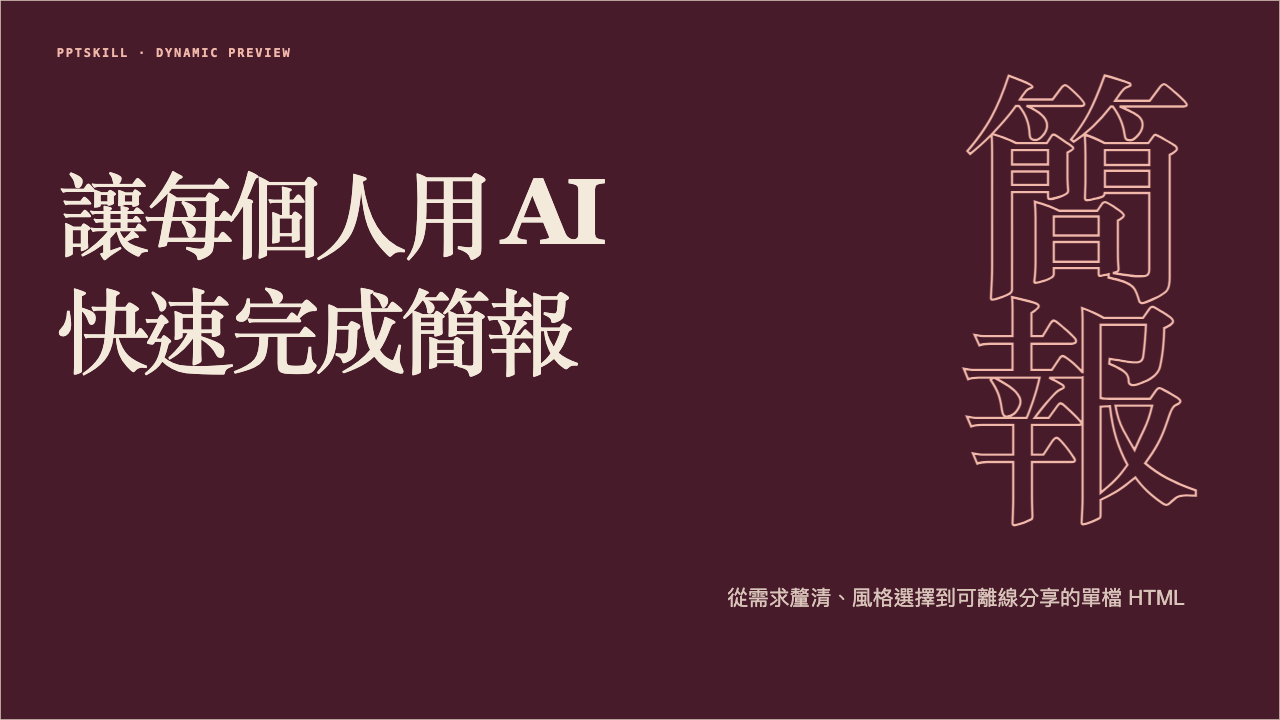
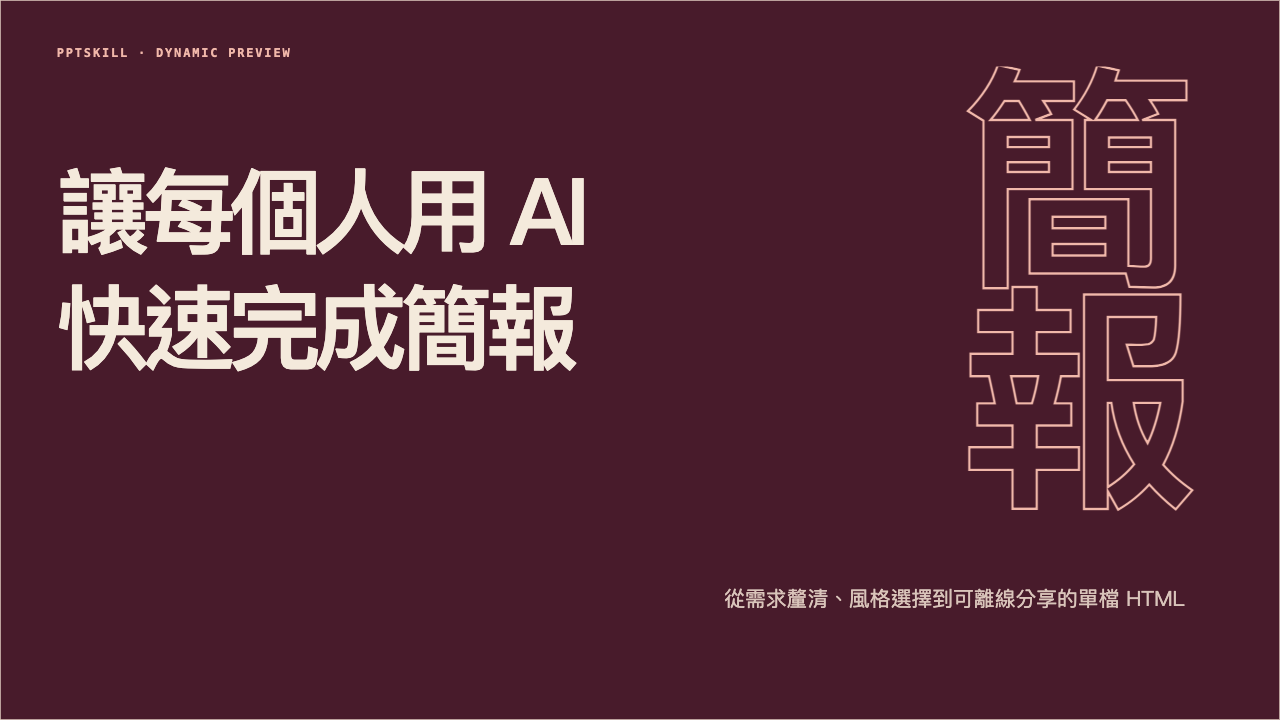
style: use Microsoft JhengHei for Q2 covers

diff --git a/fixtures/style-candidate-previews/route-technical-map.html b/fixtures/style-candidate-previews/route-technical-map.html
@@ -1,5 +1,5 @@
 <!doctype html><html lang="zh-Hant"><head><meta charset="utf-8"><meta name="viewport" content="width=device-width,initial-scale=1"><title>Technical Map</title><style>
-*{box-sizing:border-box}html,body{margin:0;width:100%;height:100%;overflow:hidden}body{position:relative;background:#0c1b19;color:#e8f0e9;font-family:Arial, sans-serif}.stage{--canvas:#0c1b19;--text:#e8f0e9;--muted:#9ab0a7;--accent:#a9ffcb;--surface:#122824;--display:Arial, sans-serif;--body:Arial, sans-serif;--mono:Menlo, monospace;position:absolute;left:50%;top:50%;width:1600px;height:900px;overflow:hidden;transform:translate(-50%,-50%) scale(var(--stage-scale,1));background:var(--canvas);color:var(--text);font-family:var(--body);transform-origin:center;border:1px solid var(--muted)}.identity{margin:0;font:800 15px/1 var(--mono);letter-spacing:.15em;text-transform:uppercase;color:var(--accent)}h1{margin:30px 0 0;font-family:var(--display);font-weight:800;letter-spacing:-.055em}.title-line{display:block;white-space:nowrap;line-height:1.25}.subtitle{margin:34px 0 0;color:var(--muted);font-size:26px;line-height:1.45}
+*{box-sizing:border-box}html,body{margin:0;width:100%;height:100%;overflow:hidden}body{position:relative;background:#0c1b19;color:#e8f0e9;font-family:'Microsoft JhengHei', 'Microsoft JhengHei UI', 'PingFang TC', sans-serif}.stage{--canvas:#0c1b19;--text:#e8f0e9;--muted:#9ab0a7;--accent:#a9ffcb;--surface:#122824;--display:'Microsoft JhengHei', 'Microsoft JhengHei UI', 'PingFang TC', sans-serif;--body:'Microsoft JhengHei', 'Microsoft JhengHei UI', 'PingFang TC', sans-serif;--mono:Menlo, monospace;position:absolute;left:50%;top:50%;width:1600px;height:900px;overflow:hidden;transform:translate(-50%,-50%) scale(var(--stage-scale,1));background:var(--canvas);color:var(--text);font-family:var(--body);transform-origin:center;border:1px solid var(--muted)}.identity{margin:0;font:800 15px/1 var(--mono);letter-spacing:.15em;text-transform:uppercase;color:var(--accent)}h1{margin:30px 0 0;font-family:var(--display);font-weight:800;letter-spacing:-.055em}.title-line{display:block;white-space:nowrap;line-height:1.25}.subtitle{margin:34px 0 0;color:var(--muted);font-size:26px;line-height:1.45}
 .stage{padding:60px 68px}.information-copy{position:absolute;right:68px;top:58px;width:760px;z-index:3}.information-copy h1{font-size:76px;line-height:1;margin-top:54px}.information-copy .subtitle{position:absolute;right:0;top:650px;width:560px;margin:0;text-align:right;font-size:22px}.information-sequence{position:absolute;left:0;top:0;width:1120px;height:850px;margin:0;padding:0;list-style:none}.information-sequence li{position:absolute;width:600px;min-height:116px;border-top:3px solid var(--accent);padding:18px 18px 14px 112px;background:var(--canvas);color:var(--text)}.information-sequence li::after{content:"";position:absolute;left:54px;top:100%;width:2px;height:104px;background:var(--muted);transform:rotate(-42deg);transform-origin:top}.information-sequence li:last-child::after{display:none}.information-sequence li:nth-child(1){left:68px;top:180px}.information-sequence li:nth-child(2){left:250px;top:398px}.information-sequence li:nth-child(3){left:432px;top:616px;width:660px}.information-sequence li:nth-child(4){left:720px;top:690px;width:580px}.information-sequence span{position:absolute;left:18px;top:16px;font:800 20px/1 var(--mono);color:var(--accent)}.information-sequence b{display:block;font:800 28px/1.25 var(--display)}.information-fallback{position:absolute;left:68px;right:68px;bottom:88px;height:190px;border-top:3px solid var(--accent);display:flex;align-items:flex-end;justify-content:space-between;padding:0 0 24px}.information-fallback span{width:68%;height:26px;background:var(--surface)}.information-fallback b{font:700 16px/1 var(--mono);color:var(--muted)}
 :root{--motion-duration:180ms;--motion-ease:ease-out;--motion-distance:12px;--motion-scale:0.992}
 html.motion-ready .motion-root [data-effect-title]{opacity:0;clip-path:inset(0 100% 0 0);transform:translateY(var(--motion-distance));transition:opacity var(--motion-duration) var(--motion-ease),clip-path var(--motion-duration) var(--motion-ease),transform var(--motion-duration) var(--motion-ease)}

diff --git a/fixtures/style-candidate-previews/route-split-proof.html b/fixtures/style-candidate-previews/route-split-proof.html
@@ -1,5 +1,5 @@
 <!doctype html><html lang="zh-Hant"><head><meta charset="utf-8"><meta name="viewport" content="width=device-width,initial-scale=1"><title>Brand Field</title><style>
-*{box-sizing:border-box}html,body{margin:0;width:100%;height:100%;overflow:hidden}body{position:relative;background:#1736d1;color:#fbf7e9;font-family:Arial, sans-serif}.stage{--canvas:#1736d1;--text:#fbf7e9;--muted:#d7dcfa;--accent:#dcff55;--surface:#112797;--display:Arial Black, sans-serif;--body:Arial, sans-serif;--mono:Menlo, monospace;position:absolute;left:50%;top:50%;width:1600px;height:900px;overflow:hidden;transform:translate(-50%,-50%) scale(var(--stage-scale,1));background:var(--canvas);color:var(--text);font-family:var(--body);transform-origin:center;border:0px solid var(--muted)}.identity{margin:0;font:800 15px/1 var(--mono);letter-spacing:.15em;text-transform:uppercase;color:var(--accent)}h1{margin:30px 0 0;font-family:var(--display);font-weight:800;letter-spacing:-.055em}.title-line{display:block;white-space:nowrap;line-height:1.25}.subtitle{margin:34px 0 0;color:var(--muted);font-size:26px;line-height:1.45}
+*{box-sizing:border-box}html,body{margin:0;width:100%;height:100%;overflow:hidden}body{position:relative;background:#1736d1;color:#fbf7e9;font-family:'Microsoft JhengHei', 'Microsoft JhengHei UI', 'PingFang TC', sans-serif}.stage{--canvas:#1736d1;--text:#fbf7e9;--muted:#d7dcfa;--accent:#dcff55;--surface:#112797;--display:'Microsoft JhengHei', 'Microsoft JhengHei UI', 'PingFang TC', sans-serif;--body:'Microsoft JhengHei', 'Microsoft JhengHei UI', 'PingFang TC', sans-serif;--mono:Menlo, monospace;position:absolute;left:50%;top:50%;width:1600px;height:900px;overflow:hidden;transform:translate(-50%,-50%) scale(var(--stage-scale,1));background:var(--canvas);color:var(--text);font-family:var(--body);transform-origin:center;border:0px solid var(--muted)}.identity{margin:0;font:800 15px/1 var(--mono);letter-spacing:.15em;text-transform:uppercase;color:var(--accent)}h1{margin:30px 0 0;font-family:var(--display);font-weight:800;letter-spacing:-.055em}.title-line{display:block;white-space:nowrap;line-height:1.25}.subtitle{margin:34px 0 0;color:var(--muted);font-size:26px;line-height:1.45}
 .stage{padding:66px 72px}.brand-field{position:absolute;left:-80px;right:-80px;top:330px;height:650px;background:var(--surface);clip-path:polygon(0 24%,44% 0,100% 14%,100% 100%,0 100%);overflow:hidden}.brand-rhythm{position:absolute;left:560px;right:-80px;top:80px;bottom:28px;display:flex;flex-direction:column;gap:18px;transform:rotate(-7deg)}.brand-rhythm span{display:block;height:48px;width:var(--module);margin-left:var(--shift);background:var(--accent)}.brand-field--falling .brand-rhythm{transform:rotate(7deg);align-items:flex-end}.brand-field--alternating .brand-rhythm span:nth-child(even){margin-left:calc(var(--shift) + 150px);background:var(--canvas)}.brand-copy{position:absolute;left:72px;top:70px;width:1250px;z-index:2}.brand-copy h1{font-size:98px;line-height:.98;margin-top:78px}.brand-copy .subtitle{width:640px;margin-top:42px}.brand-folio{position:absolute;right:72px;bottom:42px;margin:0;font:800 16px/1 var(--mono);letter-spacing:.18em;z-index:3}
 :root{--motion-duration:300ms;--motion-ease:ease-out;--motion-distance:26px;--motion-scale:0.97}
 html.motion-ready .motion-root [data-effect-title]{opacity:0;clip-path:inset(0 100% 0 0);transform:translateY(var(--motion-distance));transition:opacity var(--motion-duration) var(--motion-ease),clip-path var(--motion-duration) var(--motion-ease),transform var(--motion-duration) var(--motion-ease)}

diff --git a/fixtures/style-candidate-previews/route-editorial-rail.html b/fixtures/style-candidate-previews/route-editorial-rail.html
@@ -1,5 +1,5 @@
 <!doctype html><html lang="zh-Hant"><head><meta charset="utf-8"><meta name="viewport" content="width=device-width,initial-scale=1"><title>Editorial Monument</title><style>
-*{box-sizing:border-box}html,body{margin:0;width:100%;height:100%;overflow:hidden}body{position:relative;background:#481b2b;color:#f4eadc;font-family:Arial, sans-serif}.stage{--canvas:#481b2b;--text:#f4eadc;--muted:#d9c4ba;--accent:#f1b8aa;--surface:#713248;--display:Georgia, serif;--body:Arial, sans-serif;--mono:Menlo, monospace;position:absolute;left:50%;top:50%;width:1600px;height:900px;overflow:hidden;transform:translate(-50%,-50%) scale(var(--stage-scale,1));background:var(--canvas);color:var(--text);font-family:var(--body);transform-origin:center;border:1px solid var(--muted)}.identity{margin:0;font:800 15px/1 var(--mono);letter-spacing:.15em;text-transform:uppercase;color:var(--accent)}h1{margin:30px 0 0;font-family:var(--display);font-weight:800;letter-spacing:-.055em}.title-line{display:block;white-space:nowrap;line-height:1.25}.subtitle{margin:34px 0 0;color:var(--muted);font-size:26px;line-height:1.45}
+*{box-sizing:border-box}html,body{margin:0;width:100%;height:100%;overflow:hidden}body{position:relative;background:#481b2b;color:#f4eadc;font-family:'Microsoft JhengHei', 'Microsoft JhengHei UI', 'PingFang TC', sans-serif}.stage{--canvas:#481b2b;--text:#f4eadc;--muted:#d9c4ba;--accent:#f1b8aa;--surface:#713248;--display:'Microsoft JhengHei', 'Microsoft JhengHei UI', 'PingFang TC', sans-serif;--body:'Microsoft JhengHei', 'Microsoft JhengHei UI', 'PingFang TC', sans-serif;--mono:Menlo, monospace;position:absolute;left:50%;top:50%;width:1600px;height:900px;overflow:hidden;transform:translate(-50%,-50%) scale(var(--stage-scale,1));background:var(--canvas);color:var(--text);font-family:var(--body);transform-origin:center;border:1px solid var(--muted)}.identity{margin:0;font:800 15px/1 var(--mono);letter-spacing:.15em;text-transform:uppercase;color:var(--accent)}h1{margin:30px 0 0;font-family:var(--display);font-weight:800;letter-spacing:-.055em}.title-line{display:block;white-space:nowrap;line-height:1.25}.subtitle{margin:34px 0 0;color:var(--muted);font-size:26px;line-height:1.45}
 .stage{padding:58px 70px}.type-copy{position:absolute;left:70px;top:58px;width:1420px;z-index:2}.type-copy h1{margin-top:118px;font-size:116px;line-height:.94;letter-spacing:-.075em}.type-copy .subtitle{position:absolute;right:10px;top:670px;width:610px;margin:0;text-align:right}.type-monument{position:absolute;inset:0;overflow:hidden;color:transparent;opacity:.58;-webkit-text-stroke:3px var(--accent)}.type-monument::before{content:attr(data-glyphs);position:absolute;display:block;overflow:hidden;font:900 520px/.72 var(--display);letter-spacing:-.14em}.type-monument--edge::before{left:0;bottom:0;width:1600px;height:390px;white-space:nowrap}.type-monument--stack::before{right:70px;top:82px;width:330px;height:680px;white-space:normal;overflow-wrap:anywhere;font-size:300px;line-height:.92;letter-spacing:-.05em}.type-monument--outline::before{left:200px;bottom:0;width:1400px;height:440px;font-size:590px;white-space:nowrap}
 :root{--motion-duration:420ms;--motion-ease:cubic-bezier(.16,1,.3,1);--motion-distance:18px;--motion-scale:0.985}
 html.motion-ready .motion-root [data-effect-title]{opacity:0;clip-path:inset(0 100% 0 0);transform:translateY(var(--motion-distance));transition:opacity var(--motion-duration) var(--motion-ease),clip-path var(--motion-duration) var(--motion-ease),transform var(--motion-duration) var(--motion-ease)}

diff --git a/fixtures/style-candidate-previews/company-style-fixture.html b/fixtures/style-candidate-previews/company-style-fixture.html
@@ -1,5 +1,5 @@
 <!doctype html><html lang="zh-Hant"><head><meta charset="utf-8"><meta name="viewport" content="width=device-width,initial-scale=1"><title>Company Style · Fixture</title><style>
-*{box-sizing:border-box}html,body{margin:0;width:100%;height:100%;overflow:hidden}body{position:relative;background:#f4f1e8;color:#171917;font-family:Arial, sans-serif}.stage{--canvas:#f4f1e8;--text:#171917;--muted:#60645e;--accent:#d6402c;--surface:#e5e0d4;--display:Arial, sans-serif;--body:Arial, sans-serif;--mono:Menlo, monospace;position:absolute;left:50%;top:50%;width:1600px;height:900px;overflow:hidden;transform:translate(-50%,-50%) scale(var(--stage-scale,1));background:var(--canvas);color:var(--text);font-family:var(--body);transform-origin:center;border:2px solid var(--muted)}.identity{margin:0;font:800 15px/1 var(--mono);letter-spacing:.15em;text-transform:uppercase;color:var(--accent)}h1{margin:30px 0 0;font-family:var(--display);font-weight:800;letter-spacing:-.055em}.title-line{display:block;white-space:nowrap;line-height:1.25}.subtitle{margin:34px 0 0;color:var(--muted);font-size:26px;line-height:1.45}
+*{box-sizing:border-box}html,body{margin:0;width:100%;height:100%;overflow:hidden}body{position:relative;background:#f4f1e8;color:#171917;font-family:'Microsoft JhengHei', 'Microsoft JhengHei UI', 'PingFang TC', sans-serif}.stage{--canvas:#f4f1e8;--text:#171917;--muted:#60645e;--accent:#d6402c;--surface:#e5e0d4;--display:'Microsoft JhengHei', 'Microsoft JhengHei UI', 'PingFang TC', sans-serif;--body:'Microsoft JhengHei', 'Microsoft JhengHei UI', 'PingFang TC', sans-serif;--mono:Menlo, monospace;position:absolute;left:50%;top:50%;width:1600px;height:900px;overflow:hidden;transform:translate(-50%,-50%) scale(var(--stage-scale,1));background:var(--canvas);color:var(--text);font-family:var(--body);transform-origin:center;border:2px solid var(--muted)}.identity{margin:0;font:800 15px/1 var(--mono);letter-spacing:.15em;text-transform:uppercase;color:var(--accent)}h1{margin:30px 0 0;font-family:var(--display);font-weight:800;letter-spacing:-.055em}.title-line{display:block;white-space:nowrap;line-height:1.25}.subtitle{margin:34px 0 0;color:var(--muted);font-size:26px;line-height:1.45}
 .stage{padding:72px 86px}.institutional-rule{position:absolute;left:86px;right:86px;top:72px;height:2px;background:var(--muted)}.institutional-copy{position:absolute;left:86px;bottom:104px;width:770px}.institutional-copy h1{font-size:76px}.quiet-band{position:absolute;right:86px;top:154px;width:500px;height:500px;border:2px solid var(--muted);display:grid;grid-template-columns:2fr 1fr 1fr;align-items:end;padding:34px;gap:16px}.quiet-band span{display:block;background:var(--accent)}.quiet-band span:nth-child(1){height:34%}.quiet-band span:nth-child(2){height:68%}.quiet-band span:nth-child(3){height:100%}.folio{position:absolute;right:86px;bottom:72px;margin:0;font:700 18px/1 var(--mono);letter-spacing:.12em}
 :root{--motion-duration:240ms;--motion-ease:ease-out;--motion-distance:12px;--motion-scale:0.992}
 html.motion-ready .motion-root [data-effect-title]{opacity:0;clip-path:inset(0 100% 0 0);transform:translateY(var(--motion-distance));transition:opacity var(--motion-duration) var(--motion-ease),clip-path var(--motion-duration) var(--motion-ease),transform var(--motion-duration) var(--motion-ease)}

diff --git a/evidence/p0-vq2-r1/composition-semantics-repair-receipt.md b/evidence/p0-vq2-r1/composition-semantics-repair-receipt.md
@@ -13,6 +13,7 @@
 3. Graphic Brand Field 移除 hard-coded orbit，改為由 title 內容決定尺度與位移的 bounded modular cadence。
 4. Typography Hero 移除 fixed `01 + bar`，改為內容字形導出的 `edge / stack / outline` bounded variants。
 5. diversity validator 改比 renderer-level title/anchor region、overlap、dominant axis、quadrant map、copy relation 與 silhouette；不再靠 DOM class 名稱過關。
+6. 依 Owner 指定，四張封面的 display/body 皆改為 `Microsoft JhengHei` / `Microsoft JhengHei UI` 優先，macOS 無此字體時才 fallback 至 `PingFang TC`。
 
 ## 驗證
 
